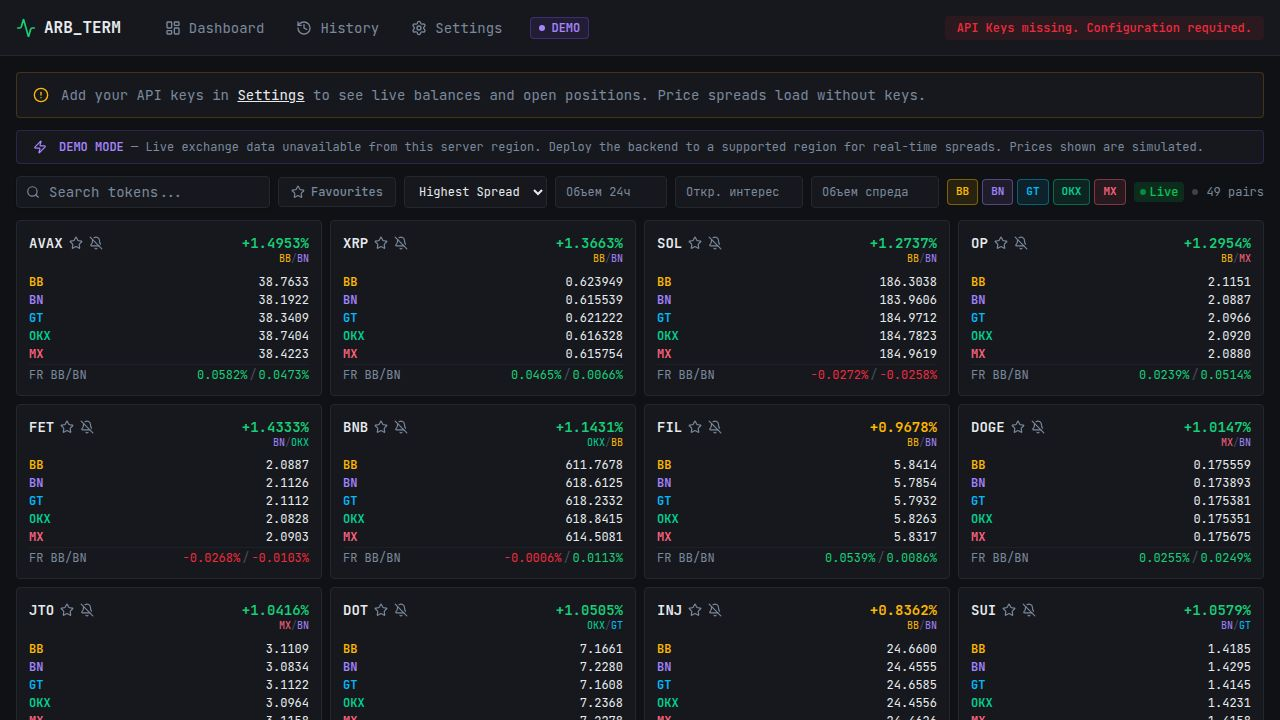
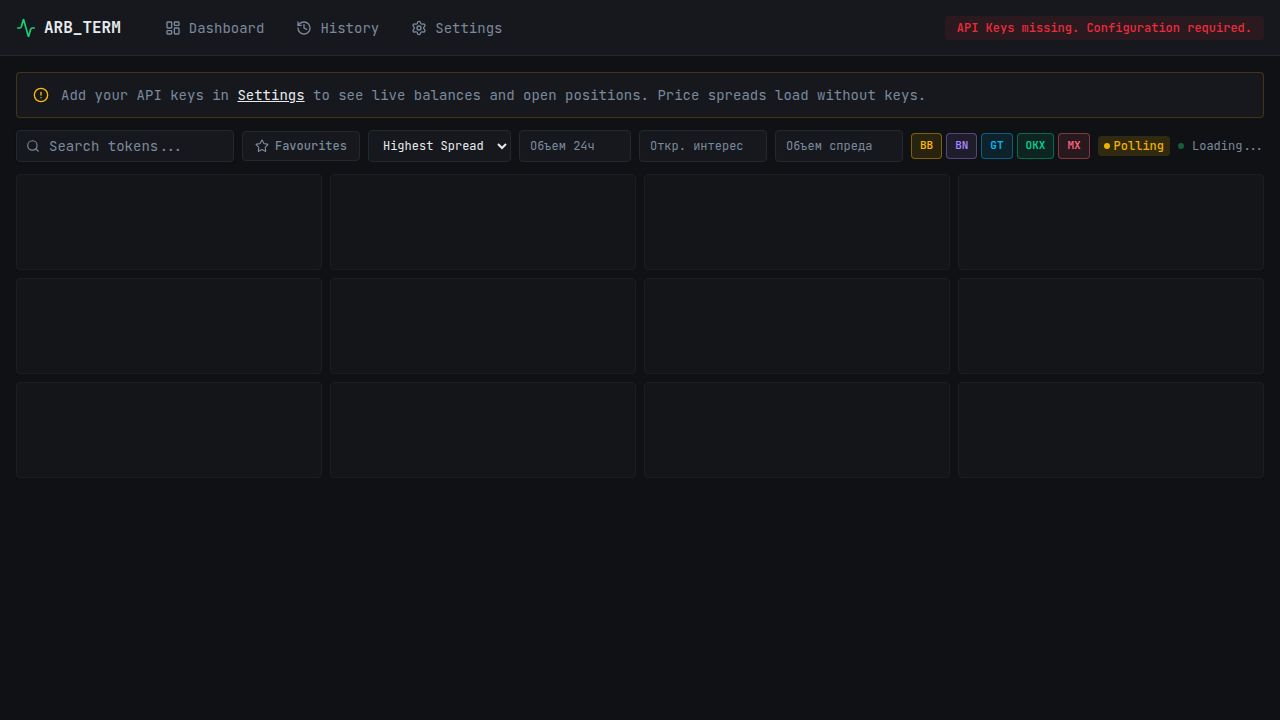
feat: persist dashboard filter settings to localStorage (task #55)
## Summary
Implemented filter state persistence so power users no longer need to
re-apply the same filters on every page refresh or tab switch.

## Changes
- artifacts/arbitrage-app/src/pages/dashboard.tsx
  - Extracted module-level constants: ALL_EXCHANGES_LIST, FILTER_STORAGE_KEY,
    DEFAULT_FILTERS, and loadFilters() helper — avoids recreating on every render
  - Replaced plain useState initializers with localStorage-backed initial values
    for: sort, maxSpread, minVolume, minOpenInterest, minSpreadDepth,
    selectedExchanges
  - Added useEffect that writes all filter values to localStorage whenever
    any of them changes (serializes Set as array)
  - Added resetFilters() function that restores all six filter values to their
    defaults and removes the localStorage entry
  - Added filtersActive computed boolean (true when any filter differs from default)
  - Added "Reset filters" button (data-testid="btn-reset-filters") that appears
    conditionally when filtersActive is true, positioned before the status row

## Behavior
- Filters are read from localStorage on mount; missing/corrupt values fall
  back to defaults gracefully
- Reloading the page or switching tabs and returning restores all persisted
  filter values
- Clicking "Reset filters" resets all six values and removes the localStorage
  key, so a subsequent reload also starts from defaults

## Out of scope (per task spec)
- search text and favsOnly toggle persistence (proposed as task #56)
[…]

diff --git a/artifacts/arbitrage-app/src/pages/dashboard.tsx b/artifacts/arbitrage-app/src/pages/dashboard.tsx
@@ -29,6 +29,36 @@ import { usePageVisibility } from "@/hooks/use-page-visibility";
 
 type SortOption = "spread_desc" | "spread_asc" | "volume_desc" | "alpha";
 
+const ALL_EXCHANGES_LIST = ["bybit", "binance", "gate", "okx", "mexc"] as const;
+const FILTER_STORAGE_KEY = "dashboard-filters";
+
+const DEFAULT_FILTERS = {
+  sort: "spread_desc" as SortOption,
+  maxSpread: "",
+  minVolume: "",
+  minOpenInterest: "",
+  minSpreadDepth: "",
+  selectedExchanges: [...ALL_EXCHANGES_LIST] as string[],
+};
+
+function loadFilters() {
+  try {
+    const raw = localStorage.getItem(FILTER_STORAGE_KEY);
+    if (!raw) return DEFAULT_FILTERS;
+    const parsed = JSON.parse(raw);
+    return {
+      sort: (parsed.sort as SortOption) ?? DEFAULT_FILTERS.sort,
+      maxSpread: parsed.maxSpread ?? DEFAULT_FILTERS.maxSpread,
+      minVolume: parsed.minVolume ?? DEFAULT_FILTERS.minVolume,
+      minOpenInterest: parsed.minOpenInterest ?? DEFAULT_FILTERS.minOpenInterest,
+      minSpreadDepth: parsed.minSpreadDepth ?? DEFAULT_FILTERS.minSpreadDepth,
+      selectedExchanges: Array.isArray(parsed.selectedExchanges) ? parsed.selectedExchanges : DEFAULT_FILTERS.selectedExchanges,
+    };
+  } catch {
+    return DEFAULT_FILTERS;
+  }
+}
+
 function formatPrice(price: number | null | undefined): string {
   if (price == null) return "-";
   if (price >= 1000) return price.toLocaleString("en-US", { maximumFractionDigits: 2 });
@@ -1144,15 +1174,50 @@ export default function Dashboard() {
   const { getBotStatusForSymbol, allOpenLegs } = useBots();
   const { getBotRequestOptions } = useBotSecret();
 
+  const ALL_EXCHANGES = ALL_EXCHANGES_LIST;
+
+  const [_savedFilters] = useState(() => loadFilters());
+
   const [search, setSearch] = useState("");
-  const [sort, setSort] = useState<SortOption>("spread_desc");
+  const [sort, setSort] = useState<SortOption>(_savedFilters.sort);
   const [favsOnly, setFavsOnly] = useState(false);
-  const [maxSpread, setMaxSpread] = useState<string>("");
-  const [minVolume, setMinVolume] = useState<string>("");
-  const [minOpenInterest, setMinOpenInterest] = useState<string>("");
-  const [minSpreadDepth, setMinSpreadDepth] = useState<string>("");
-  const ALL_EXCHANGES = ["bybit", "binance", "gate", "okx", "mexc"] as const;
-  const [selectedExchanges, setSelectedExchanges] = useState<Set<string>>(new Set(ALL_EXCHANGES));
+  const [maxSpread, setMaxSpread] = useState<string>(_savedFilters.maxSpread);
+  const [minVolume, setMinVolume] = useState<string>(_savedFilters.minVolume);
+  const [minOpenInterest, setMinOpenInterest] = useState<string>(_savedFilters.minOpenInterest);
+  const [minSpreadDepth, setMinSpreadDepth] = useState<string>(_savedFilters.minSpreadDepth);
+  const [selectedExchanges, setSelectedExchanges] = useState<Set<string>>(new Set(_savedFilters.selectedExchanges));
+
+  useEffect(() => {
+    try {
+      localStorage.setItem(FILTER_STORAGE_KEY, JSON.stringify({
+        sort,
+        maxSpread,
+        minVolume,
+        minOpenInterest,
+        minSpreadDepth,
+        selectedExchanges: [...selectedExchanges],
+      }));
+    } catch {}
+  }, [sort, maxSpread, minVolume, minOpenInterest, minSpreadDepth, selectedExchanges]);
+
+  function resetFilters() {
+    setSort(DEFAULT_FILTERS.sort);
+    setMaxSpread(DEFAULT_FILTERS.maxSpread);
+    setMinVolume(DEFAULT_FILTERS.minVolume);
+    setMinOpenInterest(DEFAULT_FILTERS.minOpenInterest);
+    setMinSpreadDepth(DEFAULT_FILTERS.minSpreadDepth);
+    setSelectedExchanges(new Set(DEFAULT_FILTERS.selectedExchanges));
+    try { localStorage.removeItem(FILTER_STORAGE_KEY); } catch {}
+  }
+
+  const filtersActive = sort !== DEFAULT_FILTERS.sort
+    || maxSpread !== ""
+    || minVolume !== ""
+    || minOpenInterest !== ""
+    || minSpreadDepth !== ""
+    || selectedExchanges.size !== ALL_EXCHANGES_LIST.length
+    || ALL_EXCHANGES_LIST.some((ex) => !selectedExchanges.has(ex));
+
   const toggleExchange = (ex: string) =>
     setSelectedExchanges((prev) => {
       const next = new Set(prev);
@@ -1480,6 +1545,18 @@ export default function Dashboard() {
             </button>
           ))}
         </div>
+
+        {filtersActive && (
+          <button
+            onClick={resetFilters}
+            data-testid="btn-reset-filters"
+            className="flex items-center gap-1 px-2.5 py-1.5 rounded text-xs font-medium border border-border bg-card text-muted-foreground hover:text-foreground hover:border-foreground/30 transition-all"
+            title="Reset all filters to defaults"
+          >
+            <X className="w-3 h-3" />
+            Reset filters
+          </button>
+        )}
 
         <div className="ml-auto flex items-center gap-2 text-xs text-muted-foreground">
           {streamStatus === "open" ? (